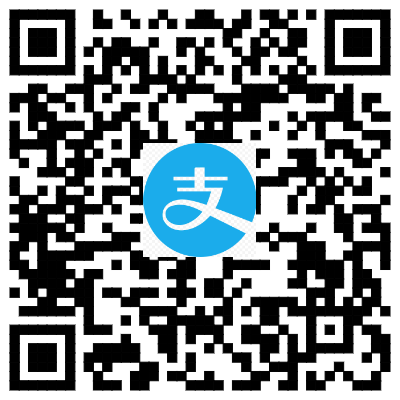
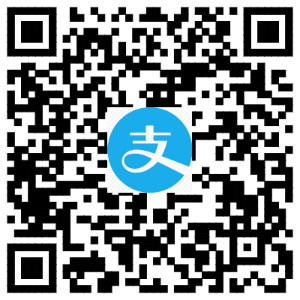
kevin's cv

diff --git a/_layouts/post.html b/_layouts/post.html
@@ -64,7 +64,7 @@ layout: comments
         <tr>
           {% for node in site.post.reward.img %}
           <td id="{{ node.id }}" class="reward_qr">
-            <img id="{{ node.id }}_qr" src="{{ node.src }}" alt="{{ site.author }}{{ node.id }}">
+            <img id="{{ node.id }}_qr" width="30%" src="{{ node.src }}" alt="{{ site.author }}{{ node.id }}">
           </td>
           {% endfor %}
         </tr>
